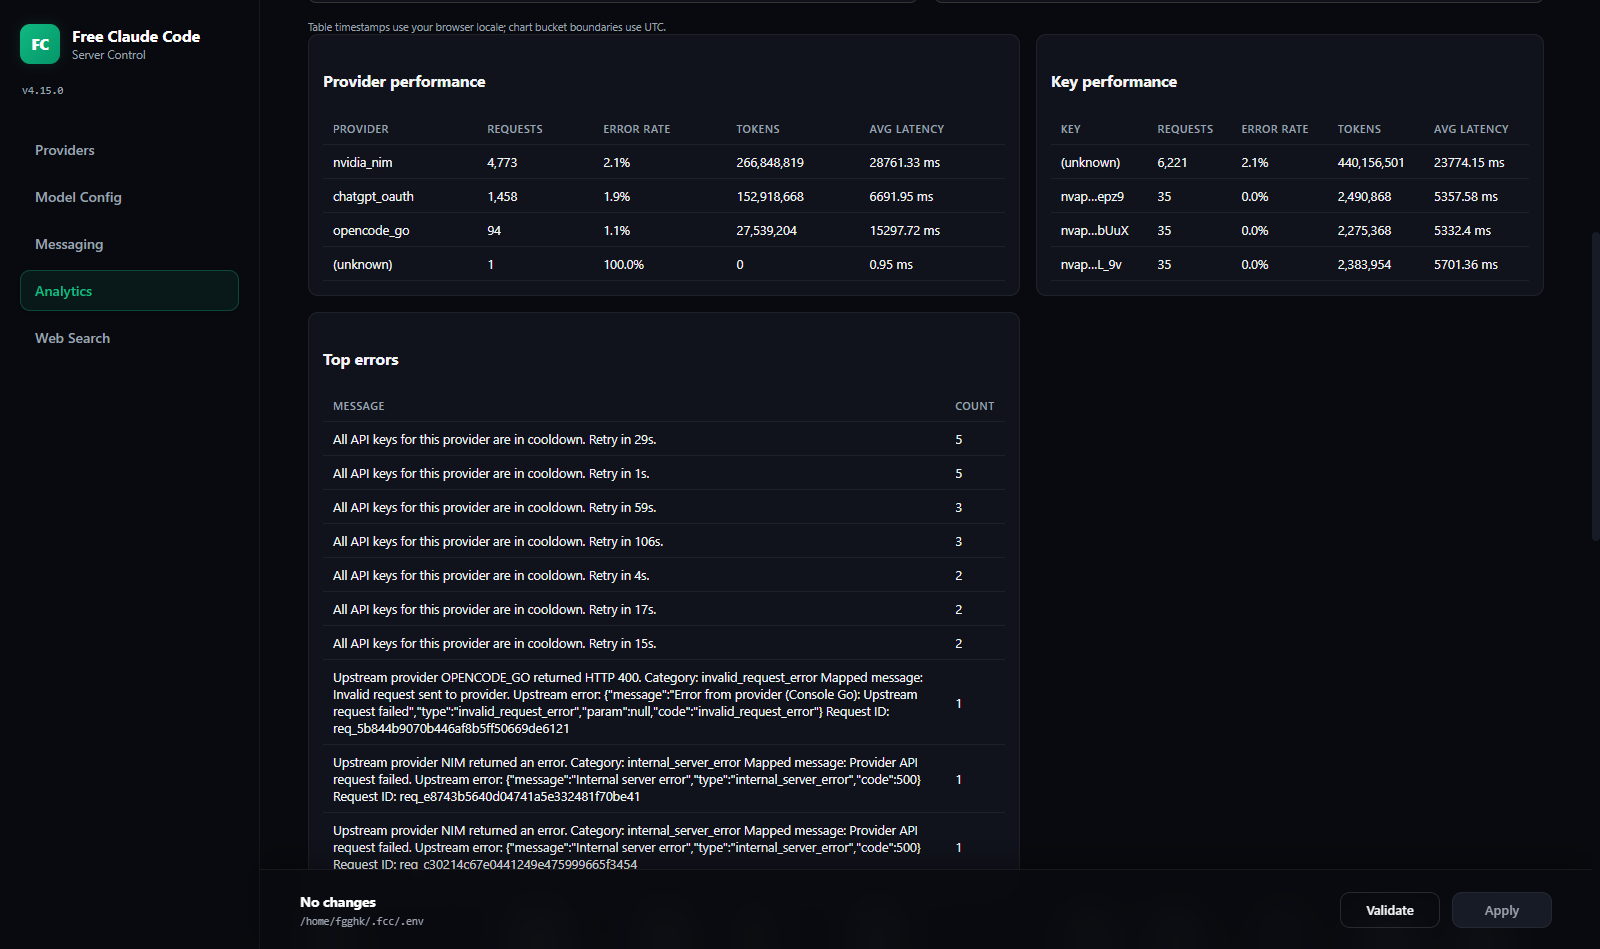
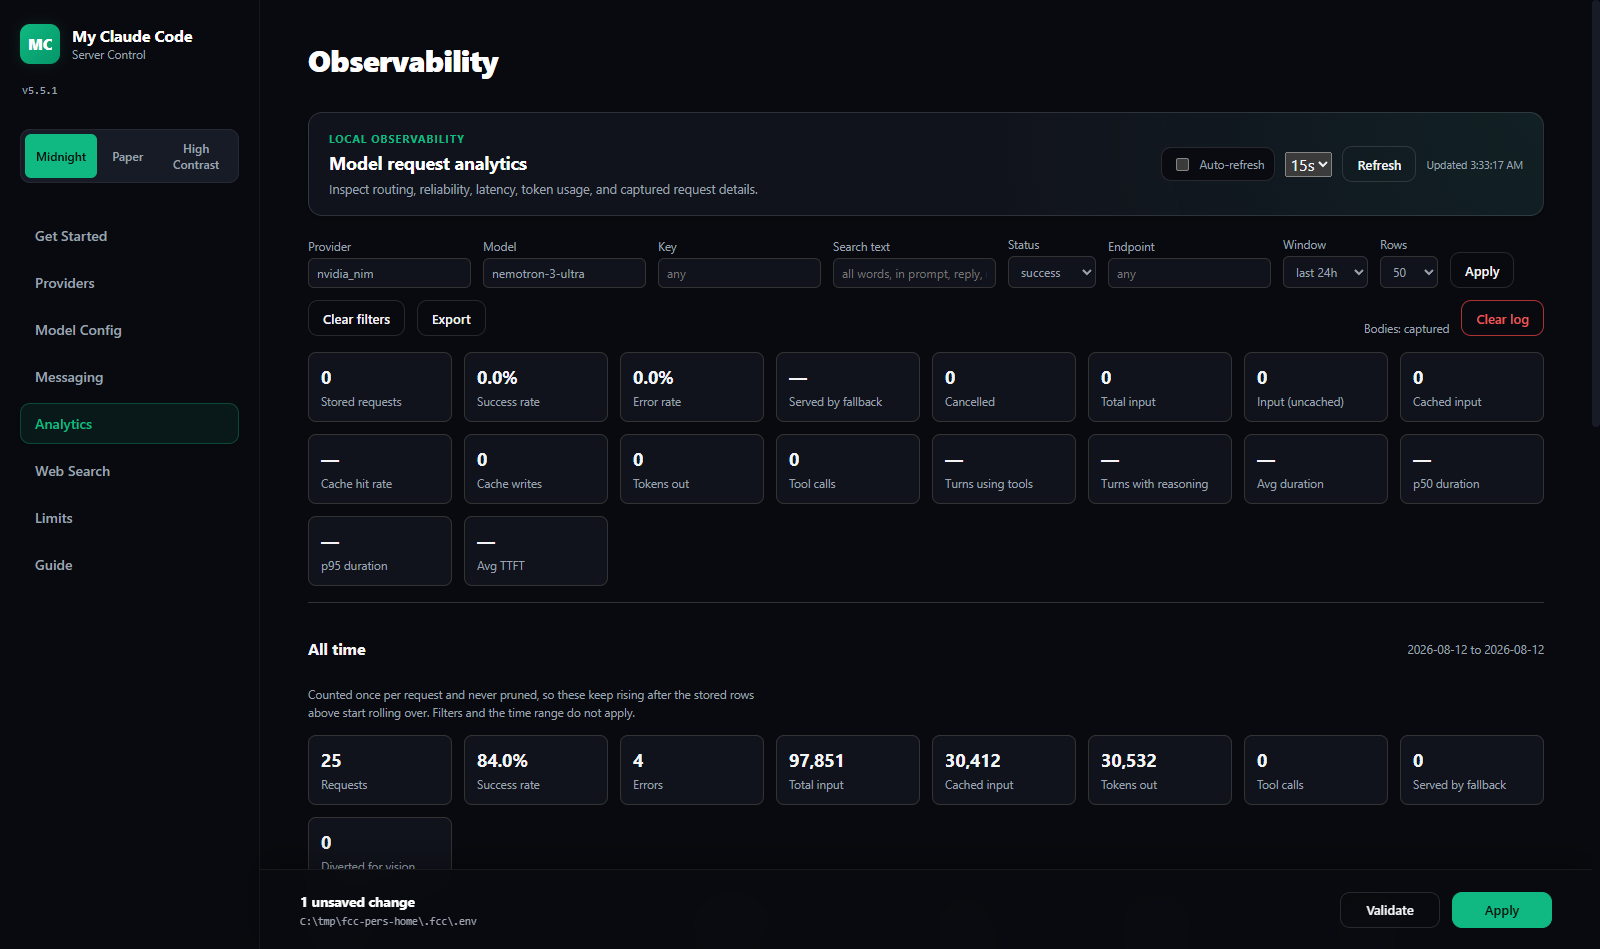
docs: my-claude-code branding + mcc commands + retaken dashboard screenshots (#106)
The project rebranded to My Claude Code (v5.0.0) but README, docs/USAGE,
ARCHITECTURE, the in-dashboard Guide and the screenshots still showed the old
Free Claude Code / fcc-* surface. This brings them current:

- README/docs/USAGE/ARCHITECTURE: fcc-* command references -> mcc-* with the
  legacy aliases noted; version pin 4.16.0 -> 5.5.1;
  WEBSEARCH_LOG_CONTENT_MAX_CHARS 50000 -> 2000000.
- In-dashboard Guide (index.html): mcc-claude/mcc-codex/mcc-pi/mcc-compact-log
  with legacy alias notes.
- Screenshots retaken against the current v5.5.1 UI (Midnight theme, MC mark,
  readable websearch cards) via a throwaway server on a fake home; both
  assets/ and admin_static/img/ copies updated.

Verified: 112 docs/brand/admin tests pass; throwaway server stopped, fake home
removed. Not retaken: terminal/desktop captures (cc-model-picker, codex*,
claude-desktop-*) which can't be reproduced via the admin browser.

diff --git a/src/my_claude_code/api/admin_static/index.html b/src/my_claude_code/api/admin_static/index.html
@@ -908,10 +908,11 @@ OLLAMA_BASE_URL="http://127.0.0.1:11434"</code></pre>
                 <img class="guide-shot" src="/admin/img/cc-model-picker.png"
                      alt="Claude Code model picker listing MCC models" loading="lazy">
                 <p>
-                  <code>fcc-claude</code> sets the proxy variables for just the current
+                  <code>mcc-claude</code> sets the proxy variables for just the current
                   shell session, without touching any file. Add <code>--discover-models</code>
                   to also enable the picker above (an extra request to the proxy on every
-                  launch, so it is opt-in): <code>fcc-claude --discover-models</code>.
+                  launch, so it is opt-in): <code>mcc-claude --discover-models</code>.
+                  The legacy <code>fcc-claude</code> alias behaves identically.
                 </p>
                 <details class="guide-note">
                   <summary>Editing the file by hand instead</summary>
@@ -980,8 +981,8 @@ OLLAMA_BASE_URL="http://127.0.0.1:11434"</code></pre>
                 </p>
 
                 <h3 id="guide-other">Point Codex or Pi here</h3>
-                <pre><code>fcc-codex
-fcc-pi</code></pre>
+                <pre><code>mcc-codex
+mcc-pi</code></pre>
                 <img class="guide-shot" src="/admin/img/codex-model-picker.png"
                      alt="Codex model picker with the generated MCC catalog" loading="lazy">
                 <p>
@@ -1186,7 +1187,8 @@ TAVILY_CHUNKS_PER_SOURCE=3</code></pre>
                   <strong>Store prompts and replies</strong> is the setting that
                   decides whether content search works at all, and
                   <strong>Compress stored text</strong> applies to new rows —
-                  run <code>fcc-compact-log</code> to convert existing history.
+                  run <code>mcc-compact-log</code> (legacy alias
+                  <code>fcc-compact-log</code>) to convert existing history.
                 </p>
                 <h4>Blank means default</h4>
                 <p>
@@ -1252,7 +1254,7 @@ EXA_API_KEY_ROTATION=failover</code></pre>
 
                 <h3 id="guide-trouble">Troubleshooting</h3>
                 <ul>
-                  <li><strong><code>fcc-server</code> not found after installing</strong>
+                  <li><strong><code>mcc-server</code> not found after installing</strong>
                     &mdash; close and reopen your terminal; the installer extends
                     <code>PATH</code> and an open shell will not see it.</li>
                   <li><strong>Claude Code still talks to Anthropic</strong> &mdash; the

diff --git a/README.md b/README.md
@@ -32,7 +32,7 @@ Run your coding agents with free, paid, or local models. Choose and validate pro
 
 <div align="center">
   <img src="assets/cc-model-picker.png" alt="Claude Code model picker showing gateway models" width="700">
-  <p><em>Claude Code native <code>/model</code> picker with MCC gateway models — requires <code>fcc-claude --discover-models</code> (or <code>fcc-claude-old</code>).</em></p>
+  <p><em>Claude Code native <code>/model</code> picker with MCC gateway models — requires <code>mcc-claude --discover-models</code> (or <code>mcc-claude-old</code>).</em></p>
 </div>
 
 <div align="center">
@@ -46,7 +46,7 @@ Run your coding agents with free, paid, or local models. Choose and validate pro
 
 | Area | What you get |
 | --- | --- |
-| **Coding agents** | Launch Claude Code with `fcc-claude`, Codex with `fcc-codex`, or Pi with `fcc-pi`; Codex and Pi's native model pickers always list the MCC catalog, Claude Code's needs `fcc-claude --discover-models` (or `fcc-claude-old`). |
+| **Coding agents** | Launch Claude Code with `mcc-claude`, Codex with `mcc-codex`, or Pi with `mcc-pi`; Codex and Pi's native model pickers always list the MCC catalog, Claude Code's needs `mcc-claude --discover-models` (or `mcc-claude-old`). Legacy `fcc-claude`, `fcc-codex`, and `fcc-pi` aliases still work. |
 | **Model providers** | 27 cloud and local providers, including Kimi For Coding and an experimental ChatGPT OAuth provider. Switch and validate providers from the Admin UI. |
 | **Model-tier routing** | Route Fable, Opus, Sonnet, Haiku, and fallback traffic to different models, each with an ordered fallback chain. |
 | **Vision adapter** | Image requests are diverted to a model that can see when the tier's own model cannot, with its own fallback chain. |
@@ -114,14 +114,14 @@ mcc-server --version
 
 1. Installs `uv` (the Python tool runner) if it's missing or too old.
 2. Looks up the **latest** release, downloads its wheel, and **verifies the SHA-256 that GitHub publishes for that asset** — a mismatch aborts rather than running unverified code.
-3. Installs My Claude Code and puts `mcc-server`, `fcc-claude`, `fcc-claude-old`, `fcc-codex`, and `fcc-pi` on your `PATH`.
+3. Installs My Claude Code and puts `mcc-server`, `mcc-claude`, `mcc-claude-old`, `mcc-codex`, and `mcc-pi` on your `PATH` (the legacy `fcc-*` spellings remain as aliases).
 
-That's all it does. **It does not install Claude Code, Codex, or Pi** — those are separate third-party tools, and My Claude Code doesn't need any of them to run. Install whichever you actually use, yourself. The `fcc-*` launchers just point an agent you already have at the proxy.
+That's all it does. **It does not install Claude Code, Codex, or Pi** — those are separate third-party tools, and My Claude Code doesn't need any of them to run. Install whichever you actually use, yourself. The `mcc-*` launchers just point an agent you already have at the proxy.
 
 The command always installs the **newest** release, so re-running it is how you update from the command line. To install a specific release instead:
 
 ```bash
-sh install.sh --version 4.16.0      # PowerShell: -Version 4.16.0
+sh install.sh --version 5.5.1      # PowerShell: -Version 5.5.1
 ```
 
 Want to see what it would do without changing anything? Add `--dry-run` (PowerShell: `-DryRun`).
@@ -169,38 +169,38 @@ Use the port shown in your terminal if it differs from `8082`.
 Claude Code:
 
 ```bash
-fcc-claude
+mcc-claude
 ```
 
-`fcc-claude` sets only `ANTHROPIC_BASE_URL` and `ANTHROPIC_AUTH_TOKEN` on top of
+`mcc-claude` sets only `ANTHROPIC_BASE_URL` and `ANTHROPIC_AUTH_TOKEN` on top of
 your inherited shell environment — nothing else is changed or stripped. This
 means its native model picker does **not** list the MCC catalog by default,
 since that requires an extra request to the proxy on every launch; pass
-`fcc-claude --discover-models` to opt in without adopting the rest of the
+`mcc-claude --discover-models` to opt in without adopting the rest of the
 legacy behavior. If you want the previous behavior (also enables gateway
 model discovery, sets the auto-compact window, disables telemetry/autoupdate,
-and clears any inherited `ANTHROPIC_*` variables), use `fcc-claude-old`
+and clears any inherited `ANTHROPIC_*` variables), use `mcc-claude-old`
 instead.
 
 Codex:
 
 ```bash
-fcc-codex
+mcc-codex
 ```
 
 Pi:
 
 ```bash
-fcc-pi
+mcc-pi
 ```
 
-All three launchers use the current Admin UI settings. Codex and Pi's native model pickers always list the models MCC exposes; for Claude Code, add `--discover-models` to `fcc-claude` (or use `fcc-claude-old`) to populate its picker the same way — otherwise pick a model tier by name. Normal CLI arguments still work, for example:
+All three launchers use the current Admin UI settings. Codex and Pi's native model pickers always list the models MCC exposes; for Claude Code, add `--discover-models` to `mcc-claude` (or use `mcc-claude-old`) to populate its picker the same way — otherwise pick a model tier by name. Normal CLI arguments still work, for example:
 
 ```bash
-fcc-codex exec "hello"
+mcc-codex exec "hello"
 ```
 
-`fcc-pi` registers MCC only for that Pi process; your existing Pi settings, sessions, credentials, and extensions remain unchanged.
+`mcc-pi` registers MCC only for that Pi process; your existing Pi settings, sessions, credentials, and extensions remain unchanged. The legacy `fcc-claude`, `fcc-codex`, and `fcc-pi` aliases behave identically.
 
 <a id="install-troubleshooting"></a>
 
@@ -210,7 +210,7 @@ fcc-codex exec "hello"
 | --- | --- |
 | `mcc-server: command not found` right after installing | Your shell's `PATH` is stale. **Close and reopen the terminal.** If it persists, check that `~/.local/bin` (Windows: `%USERPROFILE%\.local\bin`) is on `PATH`. |
 | The install stopped partway with an error about `claude`, `codex`, or `pi` | An old installer tried to install those for you and aborted when one failed. The current installer doesn't touch them at all — just re-run the command above. |
-| I want Claude Code / Codex / Pi installed too | The installer no longer installs them. Install each from its own official installer; then `fcc-claude`, `fcc-codex`, and `fcc-pi` will launch them through the proxy. |
+| I want Claude Code / Codex / Pi installed too | The installer no longer installs them. Install each from its own official installer; then `mcc-claude`, `mcc-codex`, and `mcc-pi` will launch them through the proxy. |
 | `MCC release wheel checksum mismatch; refusing to install` | The download was corrupted or incomplete. Re-run the command. This check is deliberate: it will not install a wheel it can't verify. |
 | PowerShell refuses to run the script | `Set-ExecutionPolicy -Scope Process -ExecutionPolicy Bypass`, then re-run. This only affects the current window. |
 | Admin UI won't open, or settings don't seem to apply | You probably installed in **both** PowerShell and WSL and are editing one config while the server reads the other. Run `mcc-server --version` in each and pick one environment. |
@@ -242,7 +242,7 @@ Notes:
 
 - Keep any other keys you already have in the file — just merge the `env` entries.
 - `ANTHROPIC_AUTH_TOKEN` sends the key as a bearer token (what MCC expects). The settings file wins over shell exports.
-- This gives you a working proxy connection, but the native `/model` picker stays empty until model discovery is on — add `"CLAUDE_CODE_ENABLE_GATEWAY_MODEL_DISCOVERY": "1"` to the same `env` block, or launch with `fcc-claude --discover-models` instead of editing the file.
+- This gives you a working proxy connection, but the native `/model` picker stays empty until model discovery is on — add `"CLAUDE_CODE_ENABLE_GATEWAY_MODEL_DISCOVERY": "1"` to the same `env` block, or launch with `mcc-claude --discover-models` instead of editing the file.
 - A `.claude/settings.json` or `.claude/settings.local.json` **inside a project directory** takes precedence over this user-level file. A user-level `settings.local.json` is *not* read — that scope is repository-root only.
 - Restart Claude Code after editing, then verify with `/status` — it should show `Anthropic base URL: http://127.0.0.1:8082` and your auth token.
 - Official reference: [Claude Code LLM gateway docs](https://code.claude.com/docs/en/llm-gateway-connect) · [settings.json reference](https://code.claude.com/docs/en/settings).
@@ -666,9 +666,9 @@ The Admin UI keeps the two levels explicit: top cards and the main trend chart r
 
 ```bash
 WEBSEARCH_LOG_ENABLED=true
-WEBSEARCH_LOG_MAX_ROWS=50000   # retention cap; oldest rows pruned
+WEBSEARCH_LOG_MAX_ROWS=50000    # retention cap; oldest rows pruned
 WEBSEARCH_LOG_CAPTURE_CONTENT=true      # false keeps lengths + SHA-256 only
-WEBSEARCH_LOG_CONTENT_MAX_CHARS=50000   # cap per input/output JSON payload
+WEBSEARCH_LOG_CONTENT_MAX_CHARS=2000000 # cap per input/output JSON payload
 ```
 
 Oversized payloads are stored as valid JSON truncation envelopes containing the original length, SHA-256, and a bounded preview. API keys are never copied into configuration snapshots, secret-looking object fields are redacted, and proxy/userinfo credentials are removed. Search content still commonly includes private queries, result URLs, and page text. `WEBSEARCH_LOG_CAPTURE_CONTENT=false` withholds the captured input/output payloads **and the query text itself**, keeping only lengths and SHA-256 hashes, so the switch covers everything a search reveals. Set `WEBSEARCH_LOG_ENABLED=false` to record nothing at all.
@@ -724,7 +724,7 @@ REQUEST_LOG_COMPRESS_BODIES=true   # false stores text inline, as before
 
 The dictionary is trained automatically once the log has seen a few hundred requests, and every blob records which dictionary compressed it, so retraining can never make an older row unreadable. Prompts are stored once and shared: the prompt is 98% of the bytes and 35.3% of those are exact repeats, so it lives in its own content-addressed blob apart from the reply, which differs every time. On a real log that removed a further **29.9%** after compression.
 
-Compression applies to **newly written** requests, so a database carried across the upgrade keeps paying the old price for its existing history. **`fcc-compact-log`** rewrites it in place — stop the server first, since the final vacuum needs the file to itself. Measured on a real 1.7 GB log: **1.73 GB → 0.29 GB in 4.9 minutes**, with all 50,034 bodies verified byte-identical against a backup afterwards. Safe to interrupt and resume.
+Compression applies to **newly written** requests, so a database carried across the upgrade keeps paying the old price for its existing history. **`mcc-compact-log`** (legacy alias `fcc-compact-log`) rewrites it in place — stop the server first, since the final vacuum needs the file to itself. Measured on a real 1.7 GB log: **1.73 GB → 0.29 GB in 4.9 minutes**, with all 50,034 bodies verified byte-identical against a backup afterwards. Safe to interrupt and resume.
 
 Setting `REQUEST_LOG_CAPTURE_BODIES=false` remains the extreme option — metadata only, roughly 77× more rows per gigabyte, at the cost of the request/response drill-down.
 
@@ -812,7 +812,7 @@ MCC can talk directly to `chatgpt.com/backend-api/codex/responses` (OpenAI Respo
 
 1. **Admin UI → Log in with device code** — the default and recommended path; it works across Windows/WSL, SSH, containers, and other remote environments without a localhost callback.
 2. **Admin UI → Browser login (same device)** — browser PKCE for cases where the browser and MCC definitely share the same localhost. Do not use it when MCC runs in WSL and the browser runs on Windows.
-3. `fcc-chatgpt-oauth-login` — browser PKCE locally, with immediate device-code fallback under WSL/remote sessions or when the callback cannot start. `--device` forces device login; `--browser` explicitly confirms a same-localhost browser.
+3. `mcc-chatgpt-oauth-login` — browser PKCE locally, with immediate device-code fallback under WSL/remote sessions or when the callback cannot start. `--device` forces device login; `--browser` explicitly confirms a same-localhost browser.
 4. **Import Codex CLI Tokens** — after `codex login`, copy the complete renewable credential bundle into MCC without modifying `~/.codex/auth.json`.
 
 MCC stores its renewable credentials separately at `~/.fcc/auth/chatgpt-oauth.json`. The Admin API and `.env` contain only a non-secret managed-credential reference. A raw `CHATGPT_OAUTH_ACCESS_TOKEN` remains supported as an advanced override, but it cannot be refreshed.
@@ -831,7 +831,7 @@ Moonshot's coding-plan endpoint, separate from the standard Kimi platform: OpenA
 
 ## Connect Your Client
 
-For terminal use, start `mcc-server`, then run `fcc-claude`, `fcc-codex`, or `fcc-pi`. Use the guides below for editor integrations.
+For terminal use, start `mcc-server`, then run `mcc-claude`, `mcc-codex`, or `mcc-pi` (legacy `fcc-*` aliases work too). Use the guides below for editor integrations.
 
 <details>
 <summary><strong>Claude Code in VS Code</strong></summary>

diff --git a/ARCHITECTURE.md b/ARCHITECTURE.md
@@ -1,6 +1,6 @@
 # Architecture
 
-This document is a maintainer-oriented map of Free Claude Code. It explains the
+This document is a maintainer-oriented map of My Claude Code (MCC). It explains the
 runtime boundaries, request flows, provider abstraction, configuration model,
 optional messaging bridge, and verification strategy.
 
@@ -10,7 +10,7 @@ and how contributors should extend it.
 
 ## System Overview
 
-Free Claude Code is a local proxy for agent clients. It accepts Anthropic
+My Claude Code is a local proxy for agent clients. It accepts Anthropic
 Messages traffic from Claude Code and Pi clients and OpenAI Responses traffic
 from Codex clients, routes the request to a configured upstream provider, and
 preserves the wire protocol expected by the caller.
@@ -208,8 +208,9 @@ new places to add unrelated behavior:
 
 Console scripts are registered in [pyproject.toml](pyproject.toml):
 
-- `fcc-server` and `free-claude-code` call `my_claude_code.cli.entrypoints:serve`.
-- `fcc-init` calls `my_claude_code.cli.entrypoints:init`.
+- `mcc-server` (legacy aliases `fcc-server`, `free-claude-code`) calls
+  `my_claude_code.cli.entrypoints:serve`.
+- `mcc-init` (legacy alias `fcc-init`) calls `my_claude_code.cli.entrypoints:init`.
 - `fcc-claude` calls `my_claude_code.cli.launchers.claude:launch`.
 - `fcc-claude-old` calls `my_claude_code.cli.launchers.claude:launch_legacy`.
 - `fcc-codex` calls `my_claude_code.cli.launchers.codex:launch`.
